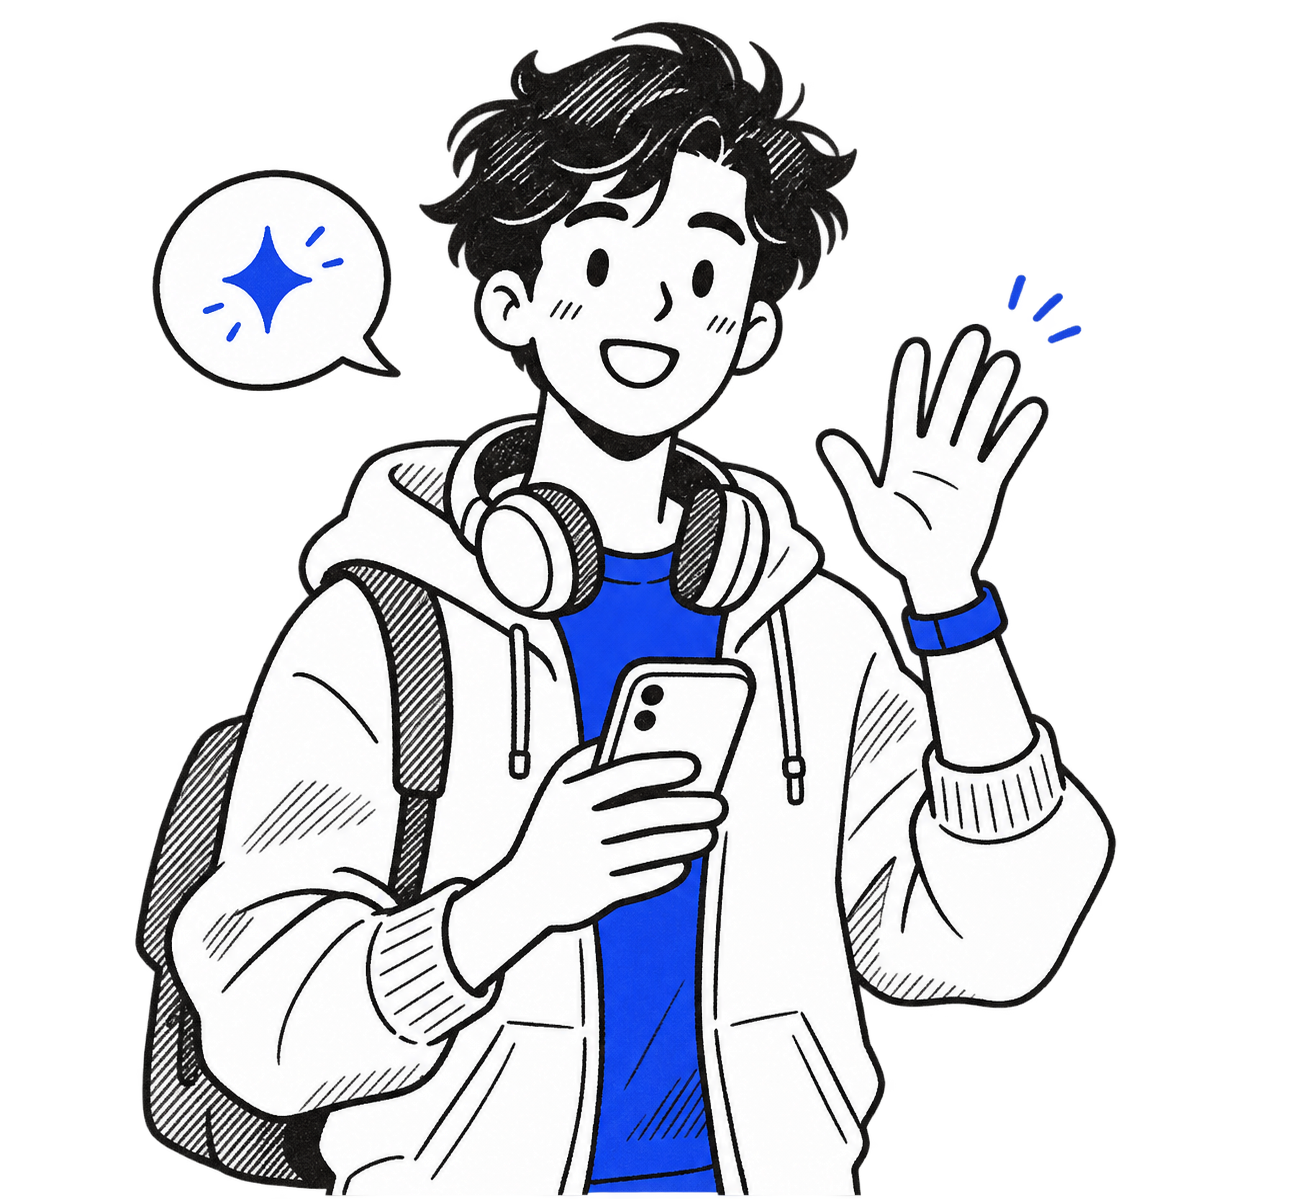
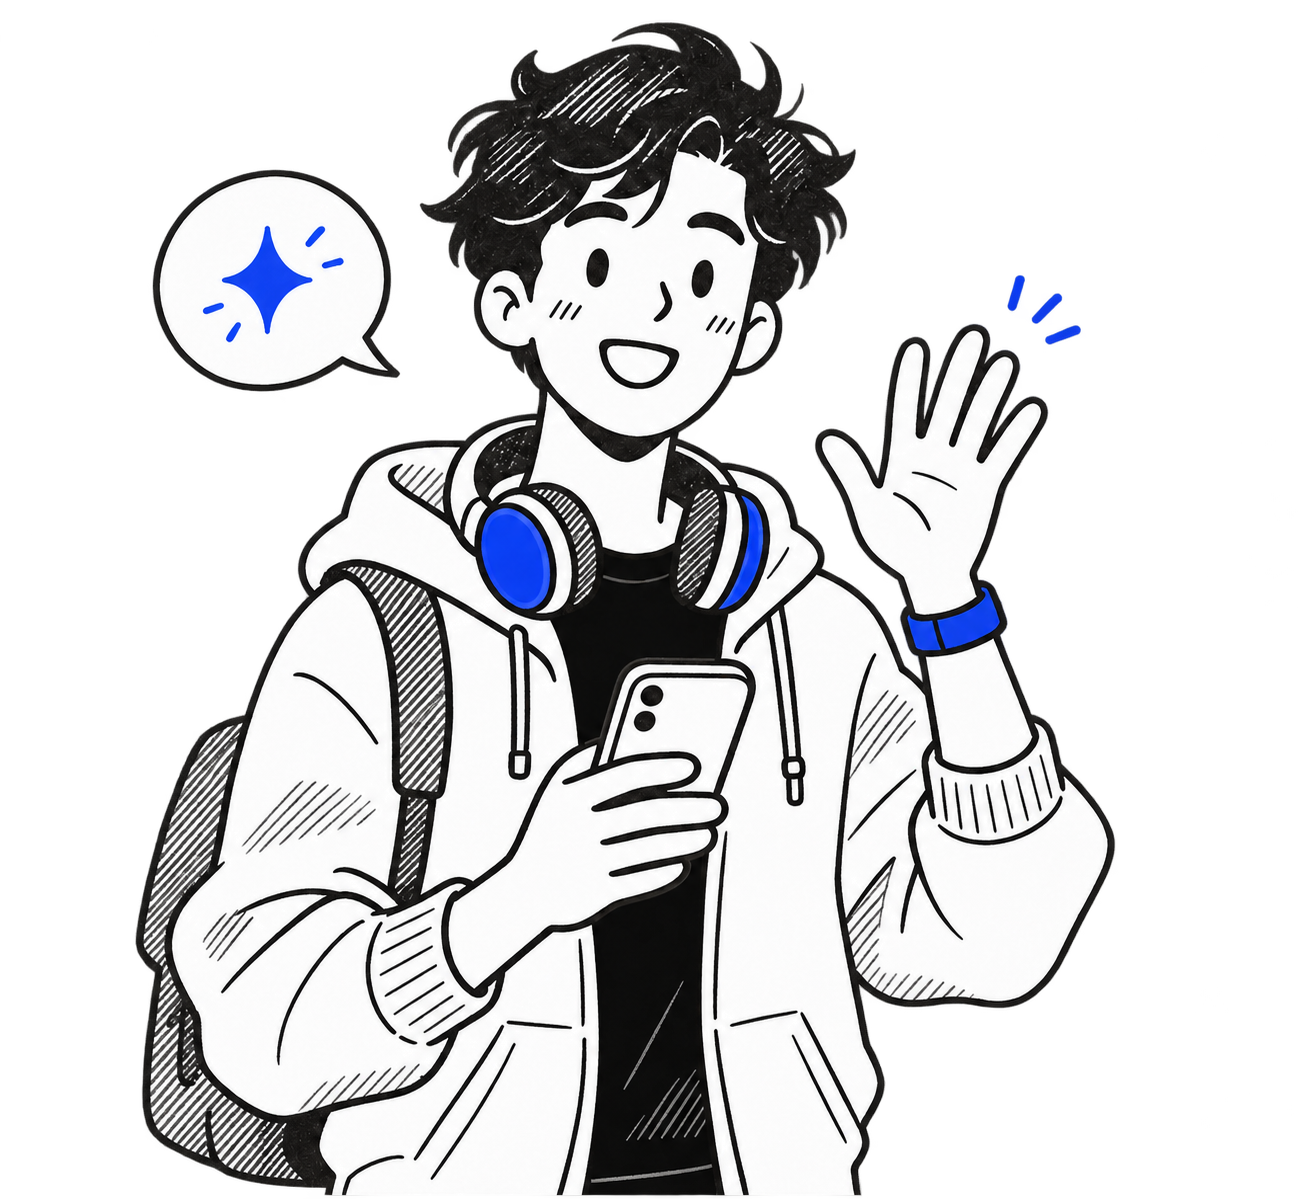
Refresh portfolio assets and remove unused UI
Updates the Node and pnpm configuration, replaces project and contact placeholders, standardizes project screenshots, and removes unused route, filter, toggle, and skill-group components and styles.

diff --git a/src/styles/components.css b/src/styles/components.css
@@ -1,15 +1,4 @@
 /* src/styles/components.css */
-@layer components {
-  /* The hero sign headline. */
-  .sign {
-    font-family: var(--font-display);
-    font-size: var(--text-sign);
-    font-stretch: 75%;
-    font-weight: 800;
-    line-height: 1.05;
-  }
-}
-
 /* ---------- Navigation bar (Phase 6, Milestone 1) ---------- */
 @layer components {
   /* Touch: no grey flash on tap, no double-tap delay, no text selection on long press. */
@@ -121,63 +110,8 @@
   }
 }
 
-/* ---------- Route spine and chips (Phase 6, Milestone 3) ---------- */
+/* ---------- Chips ---------- */
 @layer components {
-  /* Sizes shared by the spine, its stops, and its markers. */
-  .route-spine {
-    --stop-size: 1.75rem;
-    --line-width: 3px;
-    --route-gutter: 2.75rem;
-    isolation: isolate;
-  }
-
-  @media (min-width: 48rem) {
-    .route-spine {
-      --route-gutter: 4rem;
-    }
-  }
-
-  .route-stop {
-    position: relative;
-    padding-inline-start: var(--route-gutter);
-    padding-bottom: 3rem;
-  }
-
-  .route-stop:last-child {
-    padding-bottom: 0;
-  }
-
-  /* The yellow numbered square. Decoration only (aria-hidden in the markup). Ink on yellow, in both color modes. */
-  .route-marker {
-    position: absolute;
-    top: 0;
-    left: 0;
-    display: grid;
-    place-items: center;
-    width: var(--stop-size);
-    height: var(--stop-size);
-    border-radius: var(--radius-panel);
-    background-color: var(--signal);
-    color: var(--signal-ink);
-    font-family: var(--font-display);
-    font-size: var(--text-meta);
-    font-weight: 700;
-    line-height: 1;
-  }
-
-  /* Each stop draws a cobalt line from the middle of its own marker down to the middle of the next marker.
-     The last stop has no line. This is the complete, still version that every browser shows by default. */
-  .route-stop:not(:last-child)::before {
-    content: "";
-    position: absolute;
-    top: calc(var(--stop-size) / 2);
-    bottom: calc(var(--stop-size) / -2);
-    left: calc((var(--stop-size) - var(--line-width)) / 2);
-    width: var(--line-width);
-    background-color: var(--accent);
-    transform-origin: top;
-  }
-
   /* Chips: the 2px strip under a chip is invisible. When the chip rises, the strip covers the gap it left,
      so a mouse resting on its bottom edge does not make it flicker (same fix as .btn-lift). */
   .chip {
@@ -200,51 +134,6 @@
     .chip:hover {
       transform: translateY(-2px);
       border-color: var(--chip-hover, var(--accent));
-    }
-  }
-}
-
-/* ---------- Work page (Phase 6, Milestone 4) ---------- */
-@layer components {
-  /* The search and filter controls need JavaScript. With scripting on they are visible from the first paint,
-     so the list below does not jump when the script starts. With scripting off they stay hidden.
-     The script also sets data-ready, for browsers that do not know the scripting media feature. */
-  [data-work-controls] {
-    display: none;
-  }
-
-  @media (scripting: enabled) {
-    [data-work-controls] {
-      display: block;
-    }
-  }
-
-  [data-work-controls][data-ready] {
-    display: block;
-  }
-
-  /* A title link in the Work list draws a cobalt bar in the gutter beside its row. The link draws it, so it appears
-     exactly when that link is hovered (mouse only) or focused (keyboard). The first table cell is the positioned parent. */
-  .work-link::before {
-    content: "";
-    position: absolute;
-    top: 0;
-    bottom: 0;
-    left: -0.75rem;
-    width: 3px;
-    background-color: var(--accent);
-    transform: scaleY(0);
-    transform-origin: top;
-    transition: transform var(--dur-base) var(--ease-enter);
-  }
-
-  .work-link:focus-visible::before {
-    transform: scaleY(1);
-  }
-
-  @media (hover: hover) and (pointer: fine) {
-    .work-link:hover::before {
-      transform: scaleY(1);
     }
   }
 }
@@ -423,6 +312,7 @@
   img.certificate-badge { object-fit: contain; }
   .certificate-controls:not([hidden]) { display: flex; align-items: center; gap: 0.75rem; margin-top: 0.75rem; }
   .certificate-controls button { min-height: 2.75rem; padding-inline: 0.75rem; color: var(--ink); font-weight: 600; cursor: pointer; }
+  .certificate-controls button:first-child { padding-inline-start: 0; }
   .certificate-controls button:hover:not(:disabled) { color: var(--accent); }
   .certificate-controls button:disabled { color: var(--ink-muted); opacity: 0.6; cursor: default; }
   .certificate-controls span { color: var(--ink-muted); font-size: var(--text-meta); }

diff --git a/src/styles/motion.css b/src/styles/motion.css
@@ -1,29 +1,4 @@
 /* src/styles/motion.css */
-/* The line draws itself while you scroll, only where the browser supports it and motion is allowed.
-   Everywhere else the full line in components.css stays as it is. Firefox needs a duration to run a scroll animation (1ms is enough). */
-@supports (animation-timeline: view()) {
-  @media (prefers-reduced-motion: no-preference) {
-    .route-stop:not(:last-child)::before {
-      animation-name: route-draw;
-      animation-duration: 1ms;
-      animation-timing-function: linear;
-      animation-fill-mode: both;
-      animation-timeline: view();
-      animation-range: cover 0% cover 50%;
-    }
-
-    @keyframes route-draw {
-      from {
-        transform: scaleY(0);
-      }
-
-      to {
-        transform: scaleY(1);
-      }
-    }
-  }
-}
-
 @keyframes field-shake {
   25% {
     transform: translateX(-4px);
@@ -51,33 +26,6 @@
   background-color: var(--accent);
   border-color: var(--accent);
   cursor: progress;
-}
-
-/* ---------- Availability dot pulse (Phase 7, P7-6) ----------
-   A soft ring grows out of the yellow dot and fades, three times, 1.4 seconds each, starting just after the hero lines have
-   appeared. That is 4.2 seconds of motion in total, under the 5 second limit, so it needs no pause button. Then it rests.
-   It moves with transform and opacity only. Reduced motion removes it (the global rule below).
-   TO REMOVE: delete this whole block. */
-.availability-dot::after {
-  content: "";
-  position: absolute;
-  inset: 0;
-  border-radius: inherit;
-  background-color: var(--signal);
-  opacity: 0;
-  animation: availability-ping 1400ms var(--ease-enter) 700ms 3 backwards;
-}
-
-@keyframes availability-ping {
-  from {
-    opacity: 0.6;
-    transform: scale(1);
-  }
-
-  to {
-    opacity: 0;
-    transform: scale(2.6);
-  }
 }
 
 /* ---------- Page transitions (Phase 6, Milestone 8) ---------- */
@@ -133,11 +81,6 @@
   /* Chips keep their border color change but do not move. */
   .chip {
     transform: none !important;
-  }
-
-  /* Work rows: no bar. The title link keeps its color change and its focus ring. */
-  .work-link::before {
-    display: none;
   }
 
   /* Contact: no shake and no pop. The red border, the error text, and the message itself still carry the meaning. */

diff --git a/tests/home-sections.spec.ts b/tests/home-sections.spec.ts
@@ -31,7 +31,7 @@ test.describe('Selected works', () => {
       await page.goto('/');
       const shot = page.locator('[data-card-screenshot]');
       await expect(shot).toContainText('Illustration placeholder');
-      await expect(shot.locator('img')).toHaveAttribute('src', '/veritas-preview-placeholder.png');
+      await expect(shot.locator('img')).toHaveAttribute('src', '/project-preview-placeholder.png');
       const area = await box(shot);
       expect(area.width / area.height).toBeCloseTo(1.6, 1);
     });
